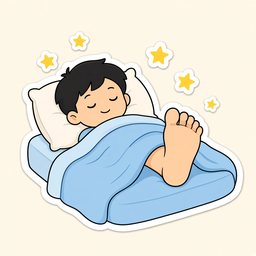
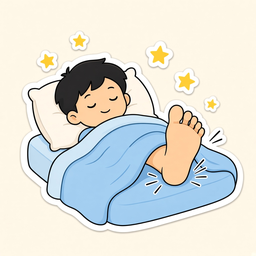
[Cursor] Redraw whisper (separate heads) + toe (5 toes tap); web-build 20261016b
Overwrite img-ca-whisper-ok and img-ca-toe-wiggle only; bump cache stamp.

diff --git a/mobile/ios/App/App/public/index.html b/mobile/ios/App/App/public/index.html
@@ -2,7 +2,7 @@
 <html lang="zh-CN">
 <head>
   <meta name="mytimetree-mode" content="local-capacitor" />
-  <meta name="mytimetree-web-build" content="20261016a" />
+  <meta name="mytimetree-web-build" content="20261016b" />
   <meta charset="UTF-8" />
   <meta name="viewport" content="width=device-width, initial-scale=1, maximum-scale=1, user-scalable=no, viewport-fit=cover" />
   <title>MyTimeTree</title>
@@ -328,14 +328,14 @@
   </div>
 
     <script src="./local/sql-wasm.js"></script>
-  <script src="./local/db.js?v=20261016a"></script>
-  <script src="./local/habit-seed.js?v=20261016a"></script>
-  <script src="./local/store.js?v=20261016a"></script>
-  <script src="./local/habits.js?v=20261016a"></script>
-  <script src="./local/bridge.js?v=20261016a"></script>
-  <script src="./local/lock.js?v=20261016a"></script>
+  <script src="./local/db.js?v=20261016b"></script>
+  <script src="./local/habit-seed.js?v=20261016b"></script>
+  <script src="./local/store.js?v=20261016b"></script>
+  <script src="./local/habits.js?v=20261016b"></script>
+  <script src="./local/bridge.js?v=20261016b"></script>
+  <script src="./local/lock.js?v=20261016b"></script>
   <script src="./local/html2canvas.min.js"></script>
-  <script src="./local/share.js?v=20261016a"></script>
-  <script src="./app.js?v=20261016a"></script>
+  <script src="./local/share.js?v=20261016b"></script>
+  <script src="./app.js?v=20261016b"></script>
 </body>
 </html>

diff --git a/src/mytimetree/static/portal/app.js b/src/mytimetree/static/portal/app.js
@@ -53,7 +53,7 @@
     bird: `/static/portal/ornaments/bird.png?v=${ASSET_V}`,
   };
 
-  const HABIT_MEDIA_V = "20261016a";
+  const HABIT_MEDIA_V = "20261016b";
   // Tip: bright star (icon-tip-seed path overwritten; icon-tip-star alias also shipped)
   const HABIT_TIP_ICON = `/static/portal/habit/icon-tip-star.png?v=${HABIT_MEDIA_V}`;
   const HABIT_TIP_ICON_2X = `/static/portal/habit/icon-tip-star@2x.png?v=${HABIT_MEDIA_V}`;

diff --git a/mobile/ios/App/App/public/app.js b/mobile/ios/App/App/public/app.js
@@ -53,7 +53,7 @@
     bird: `./ornaments/bird.png?v=${ASSET_V}`,
   };
 
-  const HABIT_MEDIA_V = "20261016a";
+  const HABIT_MEDIA_V = "20261016b";
   // Tip: bright star (icon-tip-seed path overwritten; icon-tip-star alias also shipped)
   const HABIT_TIP_ICON = `./habit/icon-tip-star.png?v=${HABIT_MEDIA_V}`;
   const HABIT_TIP_ICON_2X = `./habit/icon-tip-star@2x.png?v=${HABIT_MEDIA_V}`;
